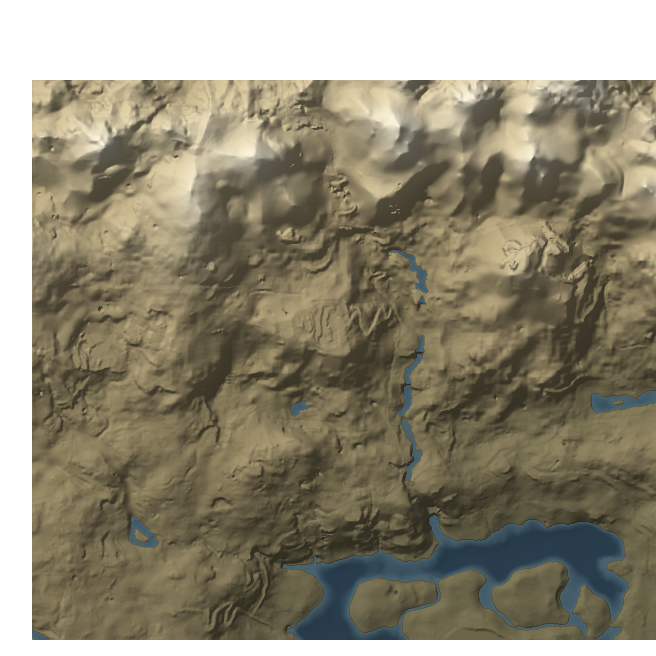
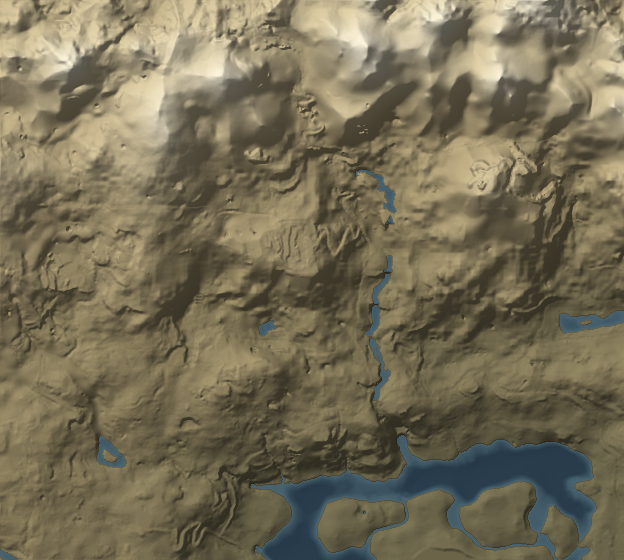
front: the Realm map fills its box, capitals on the map, leaders move their capital
The Bruma terrain is re-rendered cropped to the cells with landscape (tools/realm-map/render.py --crop-to-land,
39 x 35 cells, bounds -16384,122880 .. 143360,266240), so the empty band north of Pale Pass and west of
Applewatch is gone, and the map is 520 px wide. A capital territory wears a crown, a guild's seat at a spot a
banner in its colour; the Realm tab lists the capitals, and a leader moves theirs there (one of the faction's
territories, or where they stand for a faction that is not a hold; not at war, once a week: dbo:realmCapital).
Bruma's kind reads City, since the capital is now whatever its ruler chooses.

diff --git a/skymp5-front/src/features/faction/realm.tsx b/skymp5-front/src/features/faction/realm.tsx
@@ -30,6 +30,8 @@ export interface RealmWar {
 }
 
 export interface RealmSecret { id: string; name: string; kind: string; layer: string[]; x: number; y: number }
+// A faction's capital: one of its territories (crowned on the map), or a seat at a spot (x, y null when indoors)
+export interface RealmCapital { faction: string; factionName: string; name: string; territory: string | null; x: number | null; y: number | null }
 export interface RealmRaids {
   rules: { enabled?: boolean; minDefendersOnline: number; cooldownDays: number; raidMinutes: number };
   raids: { raider: string; raiderName: string; owner: string; territory: string; territoryName: string; until: number; breakIns: number }[];
@@ -44,12 +46,16 @@ export interface EconomyData {
 
 export interface RealmData {
   secret?: RealmSecret[];
+  capitals?: RealmCapital[];
   raids?: RealmRaids | null;
   territories: RealmTerritory[];
   colours: Record<string, string>;
   wars: RealmWar[];
-  leads: { id: string; name: string; treasury: number; online: number; seat?: string; atSeat?: number }[];
-  rules: { enabled?: boolean; minOnline: number; declareFee: number; noticeDays: number; windowsPerWar: number; windowHours: number; deathWar: boolean; treatyMinWeeks?: number; treatyMaxWeeks?: number };
+  leads: {
+    id: string; name: string; treasury: number; online: number; seat?: string; atSeat?: number;
+    capital?: string; capitalChoices?: { id: string; name: string }[]; canSetHere?: boolean; capitalChangeAt?: number; atWar?: boolean;
+  }[];
+  rules: { capitalChangeDays?: number; enabled?: boolean; minOnline: number; declareFee: number; noticeDays: number; windowsPerWar: number; windowHours: number; deathWar: boolean; treatyMinWeeks?: number; treatyMaxWeeks?: number };
   windowChoices: number[];
   treaties?: { a: string; aName: string; b: string; bName: string; until: number }[];
   offers?: { id: number; from: string; fromName: string; to: string; toName: string; weeks: number; mine: boolean }[];
@@ -66,7 +72,7 @@ const iconSrc = (type: number | null | undefined): string => {
   if (type === null || type === undefined || !ICONS) return '';
   try { const m = ICONS('./' + type + '.png'); return typeof m === 'string' ? m : (m && m.default) || ''; } catch (e) { return ''; }
 };
-const KIND_LABEL: Record<string, string> = { capital: 'Capital', town: 'Town', village: 'Village', fort: 'Fort' };
+const KIND_LABEL: Record<string, string> = { capital: 'City', town: 'Town', village: 'Village', fort: 'Fort' };
 const gold = (n: number): string => (Number(n) || 0).toLocaleString('en-US');
 const when = (ms: number): string => new Date(ms).toLocaleString('en-US', { weekday: 'short', month: 'short', day: 'numeric', hour: 'numeric', minute: '2-digit' });
 
@@ -84,6 +90,17 @@ const colourOf = (realm: RealmData, owner: string): { base: string; stripe: stri
 const swatch = (c: { base: string; stripe: string }): string =>
   c.stripe ? `repeating-linear-gradient(135deg, ${c.base} 0 5px, ${c.stripe} 5px 8px)` : c.base;
 
+const Crown = () => (
+  <svg className="realm-map__crown" viewBox="0 0 24 16" aria-hidden="true">
+    <path d="M2 14 L4 4 L9 9 L12 2 L15 9 L20 4 L22 14 Z" />
+  </svg>
+);
+const Banner = () => (
+  <svg className="realm-map__banner" viewBox="0 0 16 22" aria-hidden="true">
+    <path d="M2 1 L14 1 L14 17 L8 13 L2 17 Z" />
+  </svg>
+);
+
 // ---- the map -------------------------------------------------------------------------------------------------------
 export const RealmMap = ({ realm, background }: { realm: RealmData; background?: { src: string; bounds: [number, number, number, number] } }) => {
   const canvas = useRef<HTMLCanvasElement>(null);
@@ -95,7 +112,7 @@ export const RealmMap = ({ realm, background }: { realm: RealmData; background?:
   const bounds: [number, number, number, number] = background ? background.bounds
     : [Math.min(...xs) - margin, Math.min(...ys) - margin, Math.max(...xs) + margin, Math.max(...ys) + margin];
   const [minX, minY, maxX, maxY] = bounds;
-  const W = 460;
+  const W = 520;
   const H = Math.round(W * (maxY - minY) / (maxX - minX));
   const scale = W / (maxX - minX);
   const toPx = (x: number, y: number): [number, number] => [(x - minX) * scale, H - (y - minY) * scale];
@@ -143,12 +160,25 @@ export const RealmMap = ({ realm, background }: { realm: RealmData; background?:
       <canvas ref={canvas} width={W} height={H} className="realm-map__owners" />
       {ts.map((t) => {
         const [px, py] = toPx(t.x, t.y);
+        const seatOf = (realm.capitals || []).filter((c) => c.territory === t.id);
         return (
-          <div key={t.id} className={'realm-map__marker realm-map__marker--' + (t.kind || 'town')} style={{ left: px, top: py }}>
+          <div key={t.id} className={'realm-map__marker realm-map__marker--' + (t.kind || 'town') + (seatOf.length ? ' realm-map__marker--seat' : '')} style={{ left: px, top: py }}
+            title={seatOf.length ? 'Capital of ' + seatOf.map((c) => c.factionName).join(', ') : undefined}>
+            {seatOf.length > 0 && <Crown />}
             {iconSrc(t.icon)
               ? <img className="realm-map__icon" src={iconSrc(t.icon)} alt="" style={{ outlineColor: colourOf(realm, t.owner).base }} />
               : <span className="realm-map__dot" style={{ background: swatch(colourOf(realm, t.owner)) }} />}
             <span className="realm-map__label">{t.name}</span>
+          </div>
+        );
+      })}
+      {(realm.capitals || []).filter((c) => !c.territory && c.x !== null && c.y !== null).map((c) => {
+        const [px, py] = toPx(c.x as number, c.y as number);
+        const col = colourOf(realm, c.faction);
+        return (
+          <div key={'seat-' + c.faction} className="realm-map__marker realm-map__marker--guildseat" style={{ left: px, top: py, color: col.base }} title={'Capital of ' + c.factionName}>
+            <Banner />
+            <span className="realm-map__label">{c.name}</span>
           </div>
         );
       })}
@@ -166,9 +196,36 @@ export const RealmMap = ({ realm, background }: { realm: RealmData; background?:
   );
 };
 
-export const RealmTab = ({ realm, background }: { realm: RealmData | null; background?: { src: string; bounds: [number, number, number, number] } }) => {
+// A leader moves the capital: one of the faction's territories, or (not for a hold) where they stand
+const CapitalControl = ({ lead, realm, act, busy }: { lead: RealmData['leads'][number]; realm: RealmData; act: Send; busy: boolean }) => {
+  const choices = lead.capitalChoices || [];
+  const [pick, setPick] = useState(choices.find((c) => c.id !== lead.capital)?.id || '');
+  const waiting = (lead.capitalChangeAt || 0) > Date.now();
+  const blocked = lead.atWar ? 'Not while at war.' : waiting ? `It can move again ${when(lead.capitalChangeAt as number)}.` : '';
+  return (
+    <div className="realm__capital">
+      <div className="realm__capital-head"><Crown /> <b>{lead.name}</b>: capital {lead.seat || 'not chosen yet'}</div>
+      {blocked ? <div className="war__line war__line--dim">{blocked}</div> : (
+        <div className="war__actions">
+          {choices.length > 0 && <>
+            <select className="faction__rank" value={pick} onChange={(e) => setPick(e.target.value)}>
+              {choices.map((c) => <option key={c.id} value={c.id}>{c.name}{c.id === lead.capital ? ' (now)' : ''}</option>)}
+            </select>
+            <button className="faction__button" disabled={busy || !pick || pick === lead.capital} onClick={() => act('dbo:realmCapital', lead.id, pick)}>Make it the capital</button>
+          </>}
+          {lead.canSetHere && <button className="faction__button" disabled={busy} onClick={() => act('dbo:realmCapital', lead.id, 'here')}>Make where I stand our seat</button>}
+          {!choices.length && !lead.canSetHere && <span className="war__line--dim">Your hold holds no territory to make its capital.</span>}
+        </div>
+      )}
+      <div className="war__line war__line--dim">Members gather here to declare war{realm.rules.capitalChangeDays ? `; it moves once every ${realm.rules.capitalChangeDays} days` : ''}. Taking a hold's capital takes the hold.</div>
+    </div>
+  );
+};
+
+export const RealmTab = ({ realm, background, act, busy }: { realm: RealmData | null; background?: { src: string; bounds: [number, number, number, number] }; act: Send; busy: boolean }) => {
   if (!realm || !(realm.territories || []).length) return <p className="faction__empty">No land has been charted yet.</p>;
   const owners = Array.from(new Set(realm.territories.map((t) => t.owner)));
+  const capitals = realm.capitals || [];
   return (
     <div className="realm">
       <RealmMap realm={realm} background={background} />
@@ -190,6 +247,13 @@ export const RealmTab = ({ realm, background }: { realm: RealmData | null; backg
             </div>
           ))}
         </div>
+        {capitals.length > 0 && (
+          <div className="realm__list">
+            <span className="realm__section-head">Capitals</span>
+            {capitals.map((c) => <div key={c.faction} className="realm__row"><span className="realm__name">{c.factionName}</span><span className="realm__kind">{c.territory ? 'Territory' : 'Seat'}</span><span className="realm__owner">{c.name}</span></div>)}
+          </div>
+        )}
+        {(realm.leads || []).map((l) => <CapitalControl key={l.id} lead={l} realm={realm} act={act} busy={busy} />)}
         {(realm.secret || []).length > 0 && (
           <div className="realm__list">
             <span className="realm__secret-head">Known only to your circle</span>

diff --git a/skymp5-front/src/features/faction/index.tsx b/skymp5-front/src/features/faction/index.tsx
@@ -5,7 +5,7 @@ import { EconomyData, RealmData, RealmTab, TreasuryTab, WarTab } from './realm';
 // County Bruma's shaded relief from the game's own landscape (server tools/realm-map/render.py, --name bruma): 41 x 41 cells
 // at 256 game units a pixel, pixelX = x / 256 + 96 and pixelY = 1120 - y / 256, so these are its edges in game units
 import realmBruma from '../../img/realm-bruma.png';
-const BRUMA_MAP = { src: realmBruma, bounds: [-24576, 118784, 143360, 286720] as [number, number, number, number] };
+const BRUMA_MAP = { src: realmBruma, bounds: [-16384, 122880, 143360, 266240] as [number, number, number, number] };
 
 // Faction menu (server guilds.js, F3); actions go back as dbo:faction* events with the menu nonce
 export interface FactionMember {
@@ -100,7 +100,7 @@ const Faction = ({ data }: { data: FactionData }) => {
           )}
         </div>
 
-        {tab === 'realm' && <div className="faction__body faction__body--wide"><RealmTab realm={data.realm || null} background={BRUMA_MAP} /></div>}
+        {tab === 'realm' && <div className="faction__body faction__body--wide"><RealmTab realm={data.realm || null} background={BRUMA_MAP} act={act} busy={busy} /></div>}
         {tab === 'war' && <div className="faction__body faction__body--wide"><WarTab realm={data.realm || null} act={act} busy={busy} /></div>}
         {tab === 'treasury' && <div className="faction__body faction__body--wide"><TreasuryTab economy={data.economy || null} act={act} busy={busy} /></div>}
 

diff --git a/skymp5-front/src/features/faction/styles.scss b/skymp5-front/src/features/faction/styles.scss
@@ -294,6 +294,12 @@
 .realm-map__secret { width: 14px; height: 14px; border-radius: 50%; border: 2px dashed #c9a8ff; box-shadow: 0 0 6px rgba(168, 140, 236, 0.9); }
 .realm-map__marker--secret .realm-map__label { color: #d9c6ff; font-style: italic; }
 .realm__secret-head { font-size: 12px; letter-spacing: 0.08em; text-transform: uppercase; color: #c9a8ff; }
+.realm__section-head { font-size: 12px; letter-spacing: 0.08em; text-transform: uppercase; color: $dbo-gold; }
+.realm__capital { display: flex; flex-direction: column; gap: 6px; padding: 8px 10px; border: 1px solid $dbo-border; border-radius: 4px; background: rgba(0, 0, 0, 0.2); }
+.realm__capital-head { display: flex; align-items: center; gap: 6px; font-size: 13px; color: $dbo-text; .realm-map__crown { position: static; transform: none; } }
+.realm-map__crown { width: 18px; height: 12px; fill: $dbo-gold; filter: drop-shadow(0 0 2px #000); }
+.realm-map__marker--seat .realm-map__crown { margin-bottom: 1px; }
+.realm-map__banner { width: 14px; height: 19px; fill: currentColor; stroke: #f4efe2; stroke-width: 1.5; filter: drop-shadow(0 0 2px #000); }
 .treasury__figure { display: inline-flex; align-items: center; gap: 5px; }
 .treasury__suffix { font-size: 12px; color: $dbo-text-dim; }
 .treasury__wages { display: grid; grid-template-columns: repeat(auto-fill, minmax(260px, 1fr)); gap: 6px 14px; }
